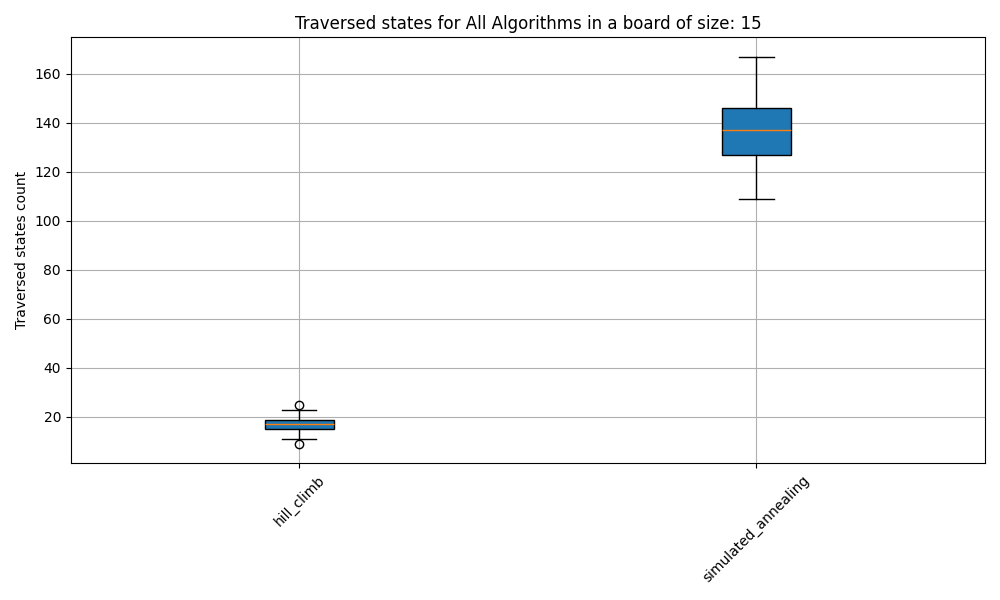
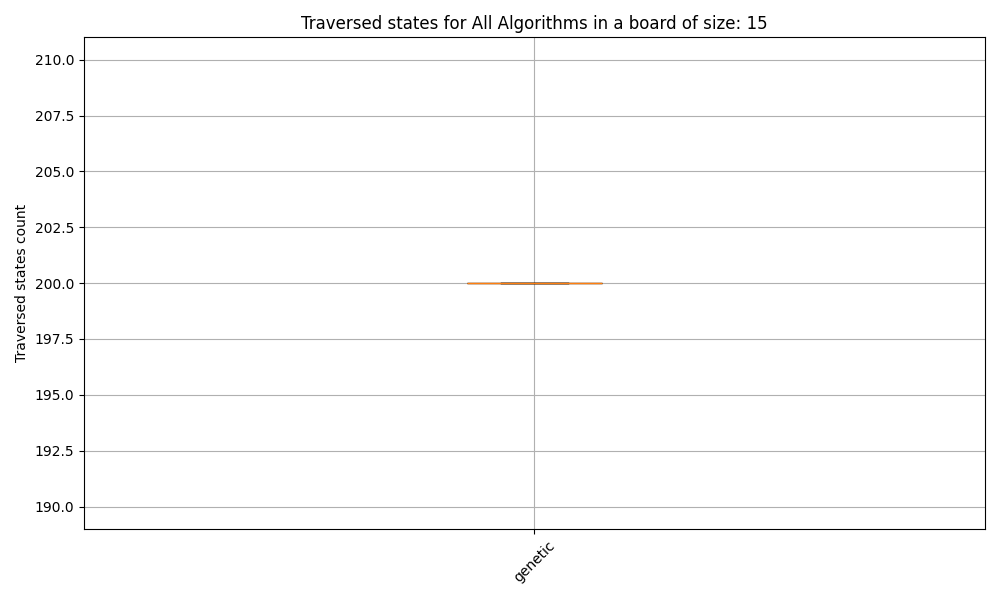
Some genetic progress

diff --git a/tp5-busquedas-locales/code/local_search_algo/genetic/genetic.py b/tp5-busquedas-locales/code/local_search_algo/genetic/genetic.py
@@ -1,0 +1,131 @@
+from chess_board_state import ChessBoardState
+from local_search_algo.utils import random_successor_chess_board
+from local_search_algo.local_search_result import LocalSearchResult
+from typing import List, Tuple
+import random
+import time
+import math
+
+
+def populate(
+    initial_board, 
+    population_size) -> List[ChessBoardState]:
+    """Given the initial board, generates a random population"""
+
+    population = [initial_board]
+
+    for _ in range(population_size - 1):
+        population.append(random_successor_chess_board(initial_board))
+
+    return population
+
+def selection_ranking(population, size):
+    ranked_population = sorted(
+        population, 
+        key=lambda board: board.cached_threats)
+
+    num_individuals = len(population)
+    probabilities = [1/(i+1) for i in range(num_individuals)]
+    selected_individuals = random.choices(
+        ranked_population, 
+        weights=probabilities, 
+        k=size)
+    return selected_individuals
+
+def crossover(parent1, parent2) -> Tuple[ChessBoardState, ChessBoardState]:
+
+    # Crossover index
+    i = random.randrange(1, parent1.size)
+
+    child1_columns = parent1.columns[:i] + parent2.columns[i:] 
+    child2_columns = parent2.columns[:i] + parent1.columns[i:]
+    return (
+        ChessBoardState(
+            size=parent1.size, 
+            columns=child1_columns),
+        ChessBoardState(
+            size=parent1.size, 
+            columns=child2_columns))
+
+def uniform_crossover(parent1, parent2):
+    child1_columns = []
+    child2_columns = []
+    for i in range(parent1.size):
+        if random.random() < 0.5:
+            child1_columns.append(parent1.columns[i])
+            child2_columns.append(parent2.columns[i])
+        else:
+            child1_columns.append(parent2.columns[i])
+            child2_columns.append(parent1.columns[i])
+    return (
+        ChessBoardState(
+            size=parent1.size, 
+            columns=child1_columns),
+        ChessBoardState(
+            size=parent1.size, 
+            columns=child2_columns))
+
+
+def mutate(board):
+    """Swaps two columns"""
+    n = board.size
+    mutated_cols = board.columns[:]
+    col1, col2 = random.sample(range(n), 2)
+    mutated_cols[col1], mutated_cols[col2] = mutated_cols[col2], mutated_cols[col1]
+    return ChessBoardState(
+        size=board.size, 
+        columns=mutated_cols)
+
+
+def search_best_individual(population):
+    best_board = population[0]
+    best_board.recalculate_threats()
+    for i in range(1, len(population)):
+        board = population[i]
+        board.recalculate_threats()
+        if board.cached_threats < best_board.cached_threats:
+            best_board = board
+
+    return best_board
+
+def genetic(
+        initial_board: ChessBoardState,
+        maximum_states: int = 100,
+        population_size: int = 50,
+        mutation_rate: float = 0.05) -> LocalSearchResult:
+
+    result = LocalSearchResult()
+    result.board = initial_board
+    t0 = time.time()
+
+    # population = populate(initial_board, population_size)
+    population = []
+    for i in range(population_size):
+        population.append(ChessBoardState(initial_board.size, seed=i))
+
+    for generation in range(maximum_states):
+
+        # Checks if there is a solution individual
+        result.board = search_best_individual(population)
+        result.h_values.append(result.board.cached_threats)
+        if result.board.cached_threats == 0:
+            break
+
+        # Selects the most suitable parents based on their score
+        best_individuals = selection_ranking(population, int(population_size * 0.2))
+
+        successors = []
+        for i in range(0, len(population) - len(best_individuals), 2):
+            parent1 = population[i]
+            parent2 = population[i + 1]
+            child1, child2 = uniform_crossover(parent1, parent2)
+            successors.append(child1)
+            successors.append(child2)
+        successors.extend(best_individuals)
+        # Mutation
+        population = [mutate(board) if random.random() < mutation_rate else board for board in population]
+        # population = selection_ranking(population, population_size)
+        population.sort(key=lambda board: board.cached_threats, reverse=True)
+    result.traversed_states = generation + 1
+    result.time_taken = time.time() - t0
+    return result

diff --git a/tp5-busquedas-locales/code/main.py b/tp5-busquedas-locales/code/main.py
@@ -1,9 +1,9 @@
 from chess_board_state import ChessBoardState
 from local_search_algo.local_search_result import LocalSearchResult
-
 from local_search_algo.hill_climb.random_restart_hill_climb import hill_climb
 from local_search_algo.hill_climb.random_restart_hill_climb import random_restart_hill_climb
 from local_search_algo.simulated_annealing.simulated_annealing import simulated_annealing
+from local_search_algo.genetic.genetic import genetic
 from plotting import save_csv, save_plot_execution_times, save_plot_states_count, plot_h_values
 
 def hill_climb_test(board):
@@ -43,6 +43,20 @@ def hill_climb_success_rate_test(
 def simulated_annealing_test(board):
     print("RUNNING: SIMULATED ANNEALING")
     result: LocalSearchResult = simulated_annealing(board, maximum_states=600)
+
+    print(f"Traversed {result.traversed_states} states in {result.time_taken} seconds")
+
+    if result.board.cached_threats == 0:
+        print("Success")
+        print(result.board)
+
+    else:
+        print(f"Failure. Stuck at {result.board.cached_threats} threats")
+
+
+def genetic_test(board):
+    print("RUNNING: GENETIC")
+    result: LocalSearchResult = genetic(board, maximum_states=10)
 
     print(f"Traversed {result.traversed_states} states in {result.time_taken} seconds")
 
@@ -100,11 +114,12 @@ def _save_results(results, queen_counts):
 def test_and_save():
 
     queen_counts = [4, 8, 10, 12, 15]
-    maximum_states = 1000
+    maximum_states = 200
     algorithms = {
-        "hill_climb": lambda board: hill_climb(board, maximum_states, maximum_shoulder_iterations=10),
+        # "hill_climb": lambda board: hill_climb(board, maximum_states, maximum_shoulder_iterations=10),
         # "random_restart_hill_climb": lambda board: random_restart_hill_climb(board, maximum_states, maximum_shoulder_iterations=10),
-        "simulated_annealing": lambda board: simulated_annealing(board, maximum_states, maximum_iterations=maximum_states)
+        # "simulated_annealing": lambda board: simulated_annealing(board, maximum_states, maximum_iterations=maximum_states),
+        "genetic": lambda board: genetic(board, maximum_states)
     }
 
     results = {algorithm_name: [] for algorithm_name in algorithms.keys()}
@@ -123,9 +138,8 @@ def test_and_save():
     _save_results(results, queen_counts)
 
 if __name__ == "__main__":
-    test_and_save()
-
-    # board = ChessBoardState(8)
-    # simulated_annealing_test(board)
+    # test_and_save()
+    board = ChessBoardState(4)
+    genetic_test(board)
 
 

diff --git a/tp5-busquedas-locales/code/chess_board_state.py b/tp5-busquedas-locales/code/chess_board_state.py
@@ -5,7 +5,8 @@ class ChessBoardState:
             self, 
             size,
             seed=None,
-            columns=None) -> None:
+            columns=None,
+            calculate_threats=True) -> None:
         
         if columns is None:
             random.seed(seed)
@@ -18,7 +19,8 @@ class ChessBoardState:
         # is an expensive operation
         self.cached_threats = 0
         
-        self.recalculate_threats()
+        if calculate_threats:
+            self.recalculate_threats()
             
     @property
     def size(self):
